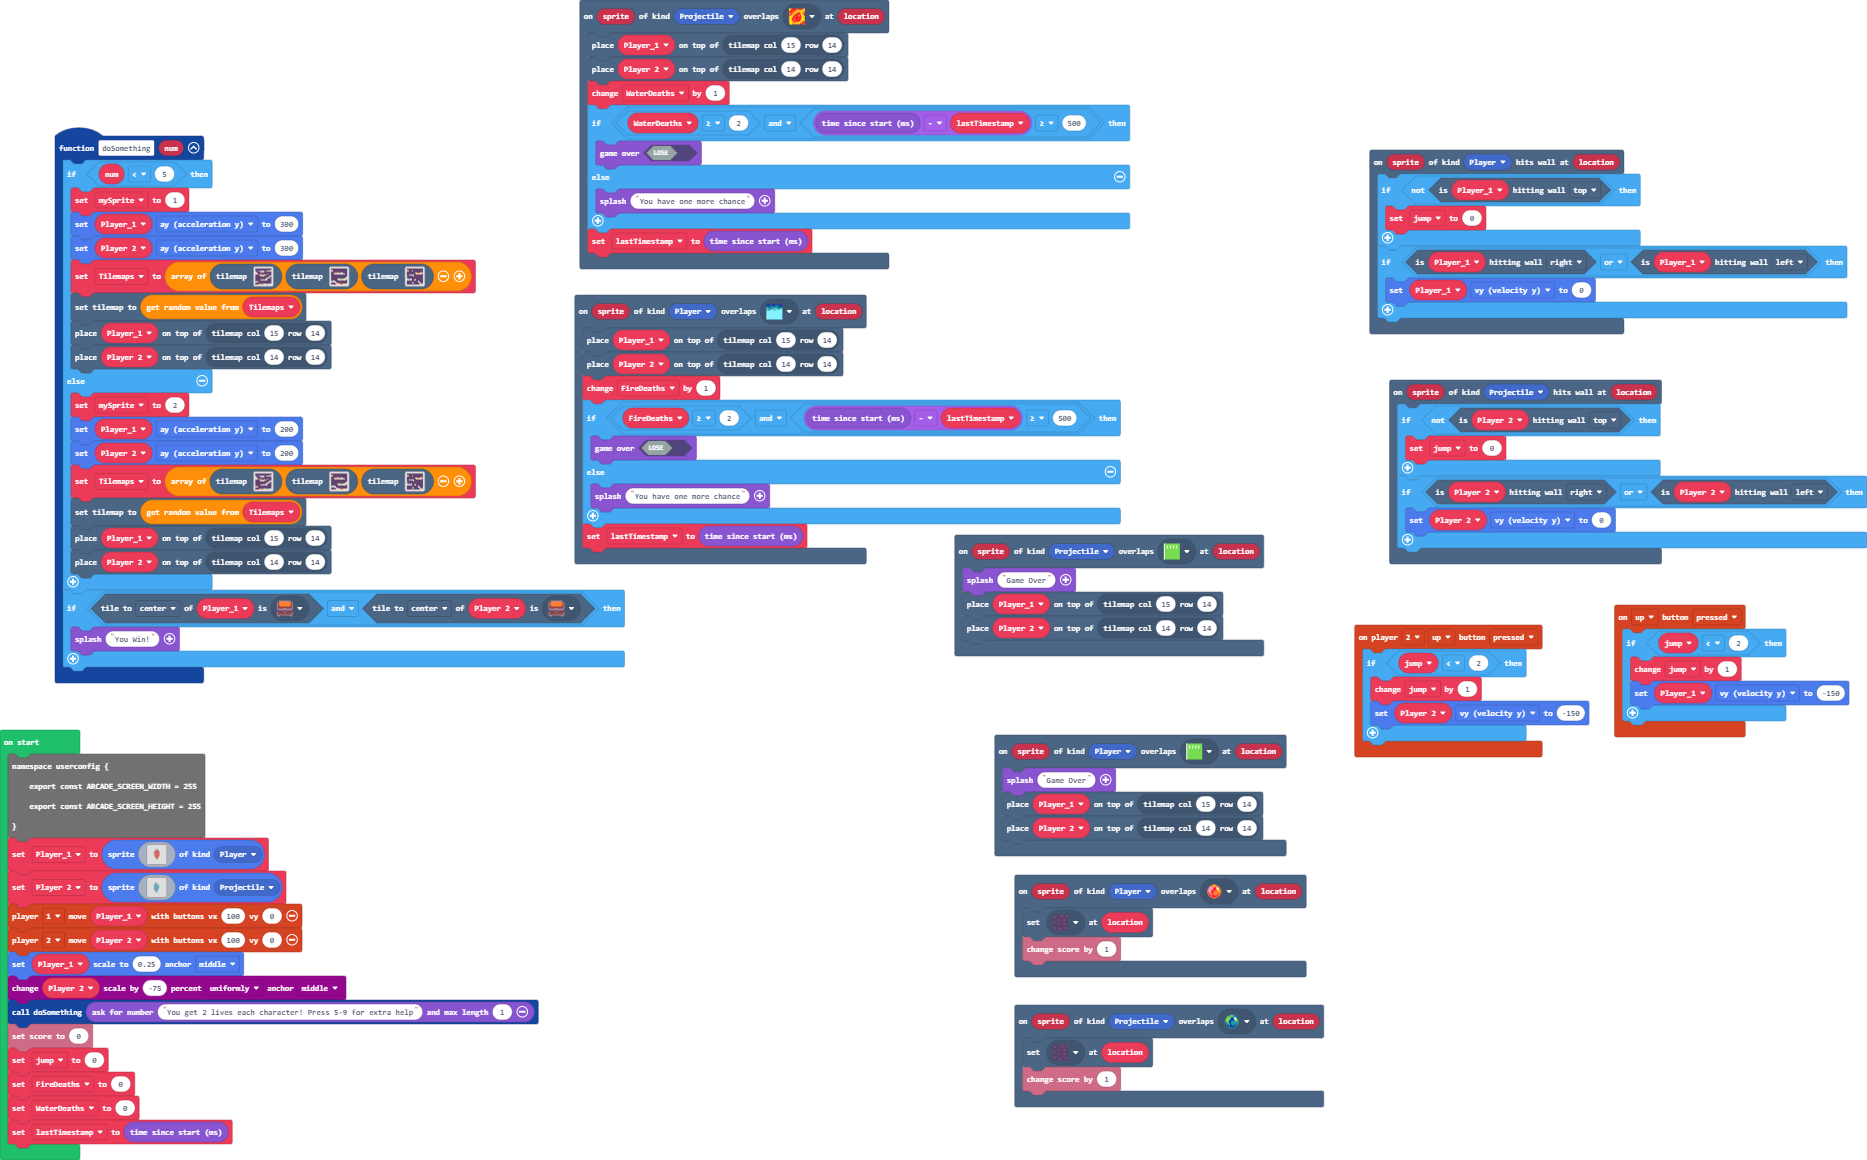
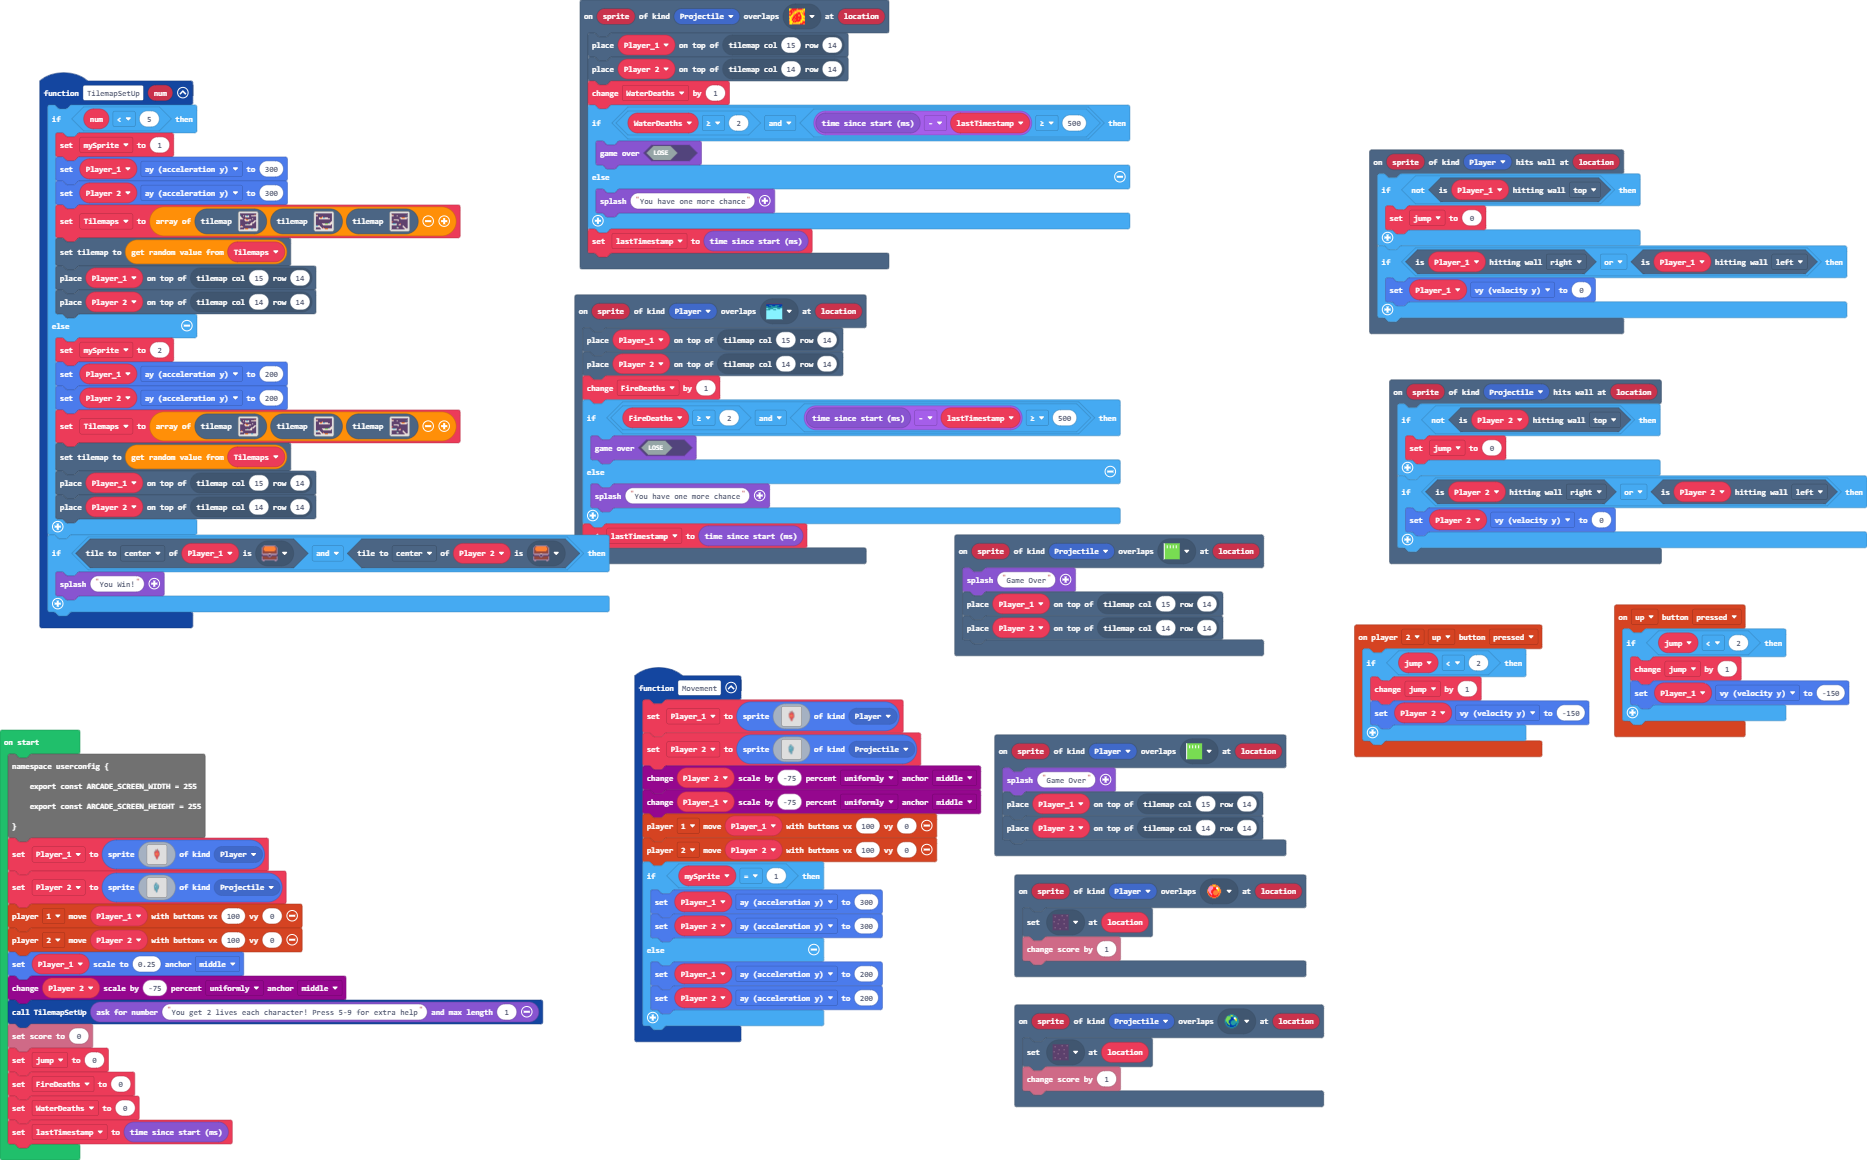
Update main.blocks, main.ts

diff --git a/main.ts b/main.ts
@@ -17,6 +17,28 @@ scene.onOverlapTile(SpriteKind.Player, sprites.builtin.field0, function (sprite,
     tiles.placeOnTile(Player_1, tiles.getTileLocation(15, 14))
     tiles.placeOnTile(Player_2, tiles.getTileLocation(14, 14))
 })
+function TilemapSetUp (num: number) {
+    if (num < 5) {
+        mySprite = 1
+        Player_1.ay = 300
+        Player_2.ay = 300
+        Tilemaps = [tilemap`level 1`, tilemap`level3`, tilemap`level11`]
+        tiles.setCurrentTilemap(Tilemaps._pickRandom())
+        tiles.placeOnTile(Player_1, tiles.getTileLocation(15, 14))
+        tiles.placeOnTile(Player_2, tiles.getTileLocation(14, 14))
+    } else {
+        mySprite = 2
+        Player_1.ay = 200
+        Player_2.ay = 200
+        Tilemaps = [tilemap`level 1`, tilemap`level3`, tilemap`level11`]
+        tiles.setCurrentTilemap(Tilemaps._pickRandom())
+        tiles.placeOnTile(Player_1, tiles.getTileLocation(15, 14))
+        tiles.placeOnTile(Player_2, tiles.getTileLocation(14, 14))
+    }
+    if (Player_1.tileKindAt(TileDirection.Center, sprites.dungeon.chestClosed) && Player_2.tileKindAt(TileDirection.Center, sprites.dungeon.chestClosed)) {
+        game.splash("You Win!")
+    }
+}
 scene.onOverlapTile(SpriteKind.Projectile, sprites.dungeon.hazardLava0, function (sprite, location) {
     tiles.placeOnTile(Player_1, tiles.getTileLocation(15, 14))
     tiles.placeOnTile(Player_2, tiles.getTileLocation(14, 14))
@@ -43,28 +65,6 @@ scene.onOverlapTile(SpriteKind.Projectile, sprites.builtin.field0, function (spr
     tiles.placeOnTile(Player_1, tiles.getTileLocation(15, 14))
     tiles.placeOnTile(Player_2, tiles.getTileLocation(14, 14))
 })
-function doSomething (num: number) {
-    if (num < 5) {
-        mySprite = 1
-        Player_1.ay = 300
-        Player_2.ay = 300
-        Tilemaps = [tilemap`level 1`, tilemap`level3`, tilemap`level11`]
-        tiles.setCurrentTilemap(Tilemaps._pickRandom())
-        tiles.placeOnTile(Player_1, tiles.getTileLocation(15, 14))
-        tiles.placeOnTile(Player_2, tiles.getTileLocation(14, 14))
-    } else {
-        mySprite = 2
-        Player_1.ay = 200
-        Player_2.ay = 200
-        Tilemaps = [tilemap`level 1`, tilemap`level3`, tilemap`level11`]
-        tiles.setCurrentTilemap(Tilemaps._pickRandom())
-        tiles.placeOnTile(Player_1, tiles.getTileLocation(15, 14))
-        tiles.placeOnTile(Player_2, tiles.getTileLocation(14, 14))
-    }
-    if (Player_1.tileKindAt(TileDirection.Center, sprites.dungeon.chestClosed) && Player_2.tileKindAt(TileDirection.Center, sprites.dungeon.chestClosed)) {
-        game.splash("You Win!")
-    }
-}
 scene.onOverlapTile(SpriteKind.Player, sprites.dungeon.hazardWater, function (sprite, location) {
     tiles.placeOnTile(Player_1, tiles.getTileLocation(15, 14))
     tiles.placeOnTile(Player_2, tiles.getTileLocation(14, 14))
@@ -106,7 +106,7 @@ controller.player1.moveSprite(Player_1, 100, 0)
 controller.player2.moveSprite(Player_2, 100, 0)
 Player_1.setScale(0.25, ScaleAnchor.Middle)
 scaling.scaleByPercent(Player_2, -75, ScaleDirection.Uniformly, ScaleAnchor.Middle)
-doSomething(game.askForNumber("You get 2 lives each character! Press 5-9 for extra help", 1))
+TilemapSetUp(game.askForNumber("You get 2 lives each character! Press 5-9 for extra help", 1))
 info.setScore(0)
 jump = 0
 FireDeaths = 0
